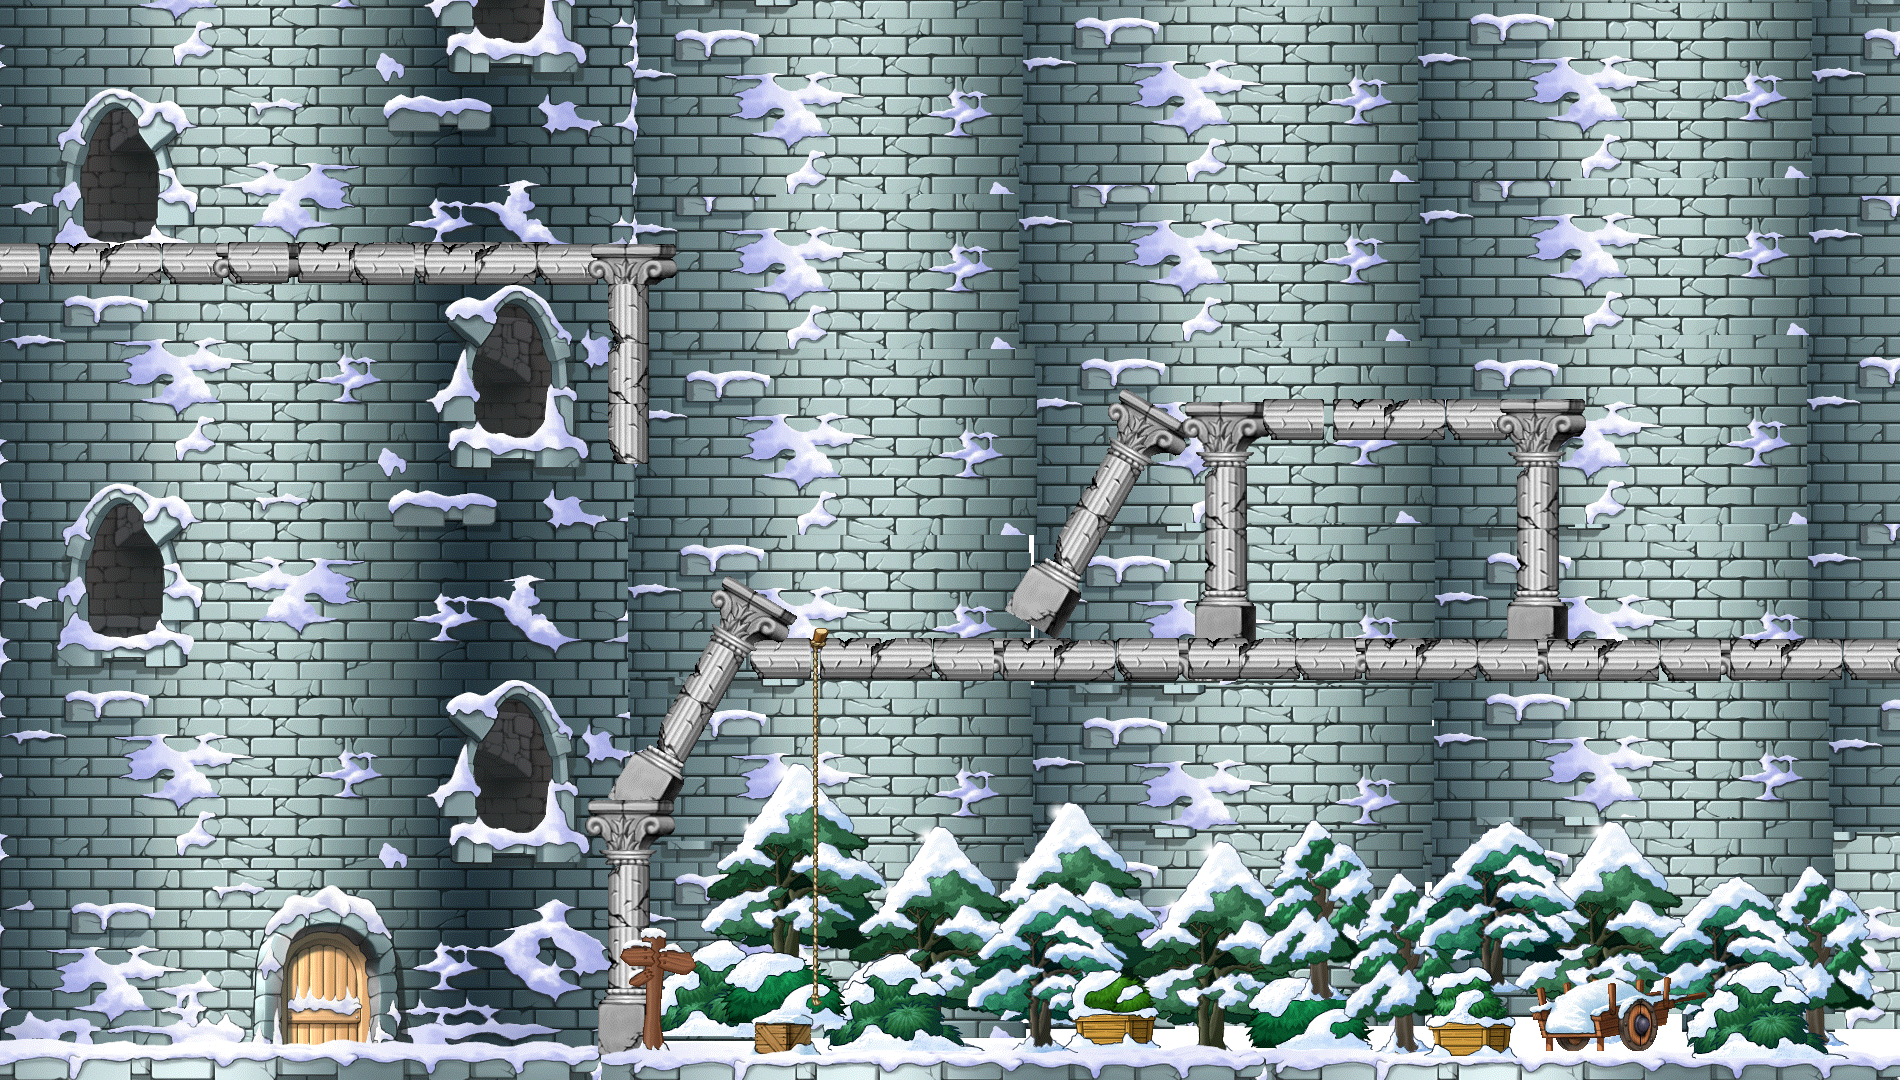
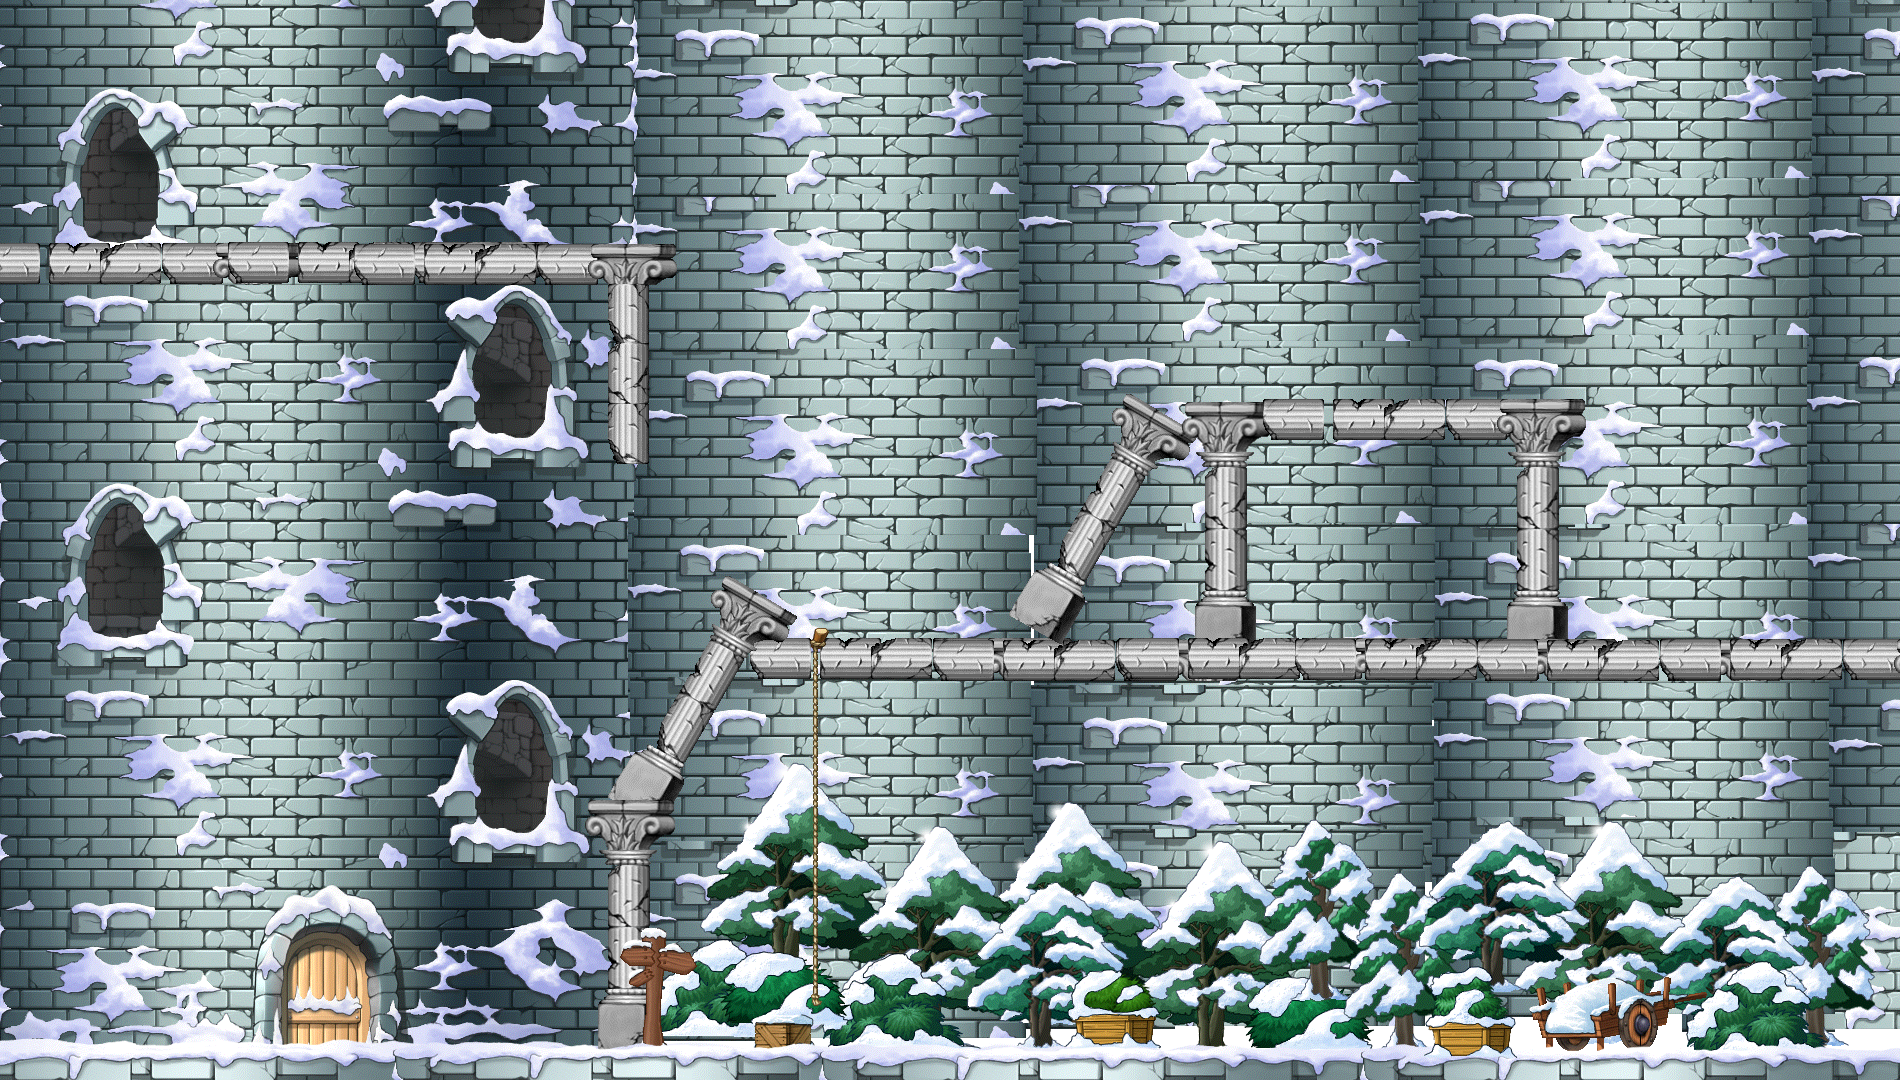
add background move

Changed region(s): [[0.1863, 0.9472, 1.0, 1.0], [0.5279, 0.3667, 0.6521, 0.6111]]

diff --git a/src/com/neuedu/maplestory/entity/Hero.java b/src/com/neuedu/maplestory/entity/Hero.java
@@ -6,6 +6,7 @@ import java.awt.event.KeyEvent;
 import java.util.LinkedList;
 import java.util.List;
 
+import com.neuedu.maplestory.client.MapleStoryClient;
 import com.neuedu.maplestory.constant.Constant;
 import com.neuedu.maplestory.util.ImageUtil;
 
@@ -37,7 +38,7 @@ public class Hero {
 		this.skill = false;
 		this.dire = Direction.right;
 		this.action = Action.stand;
-		this.speed = 10;
+		this.speed = Constant.HERO_SPEED;
 
 		try {
 			this.width = img[0].getWidth(null);
@@ -51,7 +52,7 @@ public class Hero {
 
 	public Hero() {
 		this(ImageUtil.imgHero.stand.l, 800, 0);
-		this.y = Constant.GAME_HEIGHT - this.height - 140;
+		this.y = Constant.GAME_HEIGHT - this.height - 25;
 	}
 
 	/**
@@ -98,6 +99,8 @@ public class Hero {
 				}
 				if (shoot) {
 					img = ImageUtil.imgHero.shoot.l;
+				} else if (skill) {
+					img = ImageUtil.imgHero.skill.l;
 				} else {
 					img = ImageUtil.imgHero.jump.l;
 				}
@@ -125,6 +128,8 @@ public class Hero {
 				}
 				if (shoot) {
 					img = ImageUtil.imgHero.shoot.r;
+				} else if (skill) {
+					img = ImageUtil.imgHero.skill.r;
 				} else {
 					img = ImageUtil.imgHero.jump.r;
 				}
@@ -146,52 +151,61 @@ public class Hero {
 	 */
 	public void outOfBounds() {
 
-		// left bounds
+		// left bound
 		if (x < 0) {
 			x = 0;
+			MapleStoryClient.backGround.move(Direction.right);
 		}
 
-		// right bounds
+		// right bound
 		if (x > Constant.GAME_WIDTH - this.width) {
 			x = Constant.GAME_WIDTH - this.width;
+			MapleStoryClient.backGround.move(Direction.left);
 		}
+
+		// bullets out of bound
+		bullets.removeIf((e) -> {
+			return e.Die();
+		});
 	}
 
 	/**
 	 * jump_Args
 	 */
-	public double v0 = 40;
-	public double vt = 0;
-	public static final double g = Constant.G;
-	public double t = 0.5;
-	public double delta_height = 0;
-	public boolean jump_up = true;
-	public int sy;
+	static class Jump {
+		public static double v0 = 40;
+		public static double vt = 0;
+		public static final double g = Constant.G;
+		public static double t = 0.5;
+		public static double delta_height = 0;
+		public static boolean jump_up = true;
+		public static int sy;
+	}
 
 	/**
 	 * jump Method
 	 */
 	public void jump() {
-		if (jump_up) {
-			vt = v0 - g * t;
-			delta_height = v0 * t;
-			v0 = vt;
-			y -= delta_height;
-			if (vt <= 0) {
-				jump_up = false;
-				vt = 0;
-				v0 = 0;
+		if (Jump.jump_up) {
+			Jump.vt = Jump.v0 - Jump.g * Jump.t;
+			Jump.delta_height = Jump.v0 * Jump.t;
+			Jump.v0 = Jump.vt;
+			y -= Jump.delta_height;
+			if (Jump.vt <= 0) {
+				Jump.jump_up = false;
+				Jump.vt = 0;
+				Jump.v0 = 0;
 			}
 		} else {
-			vt = v0 + g * t;
-			delta_height = v0 * t;
-			v0 = vt;
-			y += delta_height;
-			if (y >= sy) {
-				y = sy;
+			Jump.vt = Jump.v0 + Jump.g * Jump.t;
+			Jump.delta_height = Jump.v0 * Jump.t;
+			Jump.v0 = Jump.vt;
+			y += Jump.delta_height;
+			if (y >= Jump.sy) {
+				y = Jump.sy;
 				this.jump = false;
-				v0 = 40;
-				vt = 0;
+				Jump.v0 = 40;
+				Jump.vt = 0;
 			}
 		}
 	}
@@ -226,18 +240,15 @@ public class Hero {
 		for (Bullet bullet : bullets) {
 			bullet.move();
 		}
-		bullets.removeIf((e) -> {
-			return e.Die();
-		});
 	}
 
 	/**
 	 * skill
 	 */
 	void skill() {
-		final int counts = 36;
+		final int counts = 10;
 		for (int i = 0; i <= counts; i++) {
-			bullets.add(new Bullet(this.x, this.y, -Math.PI * 2 / counts * i));
+			bullets.add(new Bullet(ImageUtil.imgBullet.skill, this.x, this.y, -Math.PI / counts * i, 20));
 		}
 	}
 
@@ -278,15 +289,15 @@ public class Hero {
 			right = true;
 			break;
 		case KeyEvent.VK_J:
-			if(!shoot){
+			if (!shoot) {
 				shoot();
 			}
 			shoot = true;
 			break;
 		case KeyEvent.VK_K:
 			if (!jump) {
-				sy = y;
-				jump_up = true;
+				Jump.sy = y;
+				Jump.jump_up = true;
 				jump = true;
 			}
 			break;

diff --git a/src/com/neuedu/maplestory/util/ImageUtil.java b/src/com/neuedu/maplestory/util/ImageUtil.java
@@ -12,7 +12,7 @@ import com.neuedu.maplestory.util.GameUtil;
 
 public class ImageUtil {
 
-	public static Image imgBackground = GameUtil.getImage("com/neuedu/maplestory/img/background/snow.png");
+	public static Image imgBackground = GameUtil.getImage("com/neuedu/maplestory/img/background/BackGround.png");
 
 	public static class imgHero {
 		public static class walk {
@@ -100,12 +100,15 @@ public class ImageUtil {
 	public static class imgBullet {
 		
 		public static final int size = 1;
+
+		public static Image[] norml = new Image[size];
 		
-		public static Image[] img = new Image[size];
+		public static Image[] skill = new Image[size];
 
 		static {
 			for (int i = 0; i < size; i++) {
-				img[i] = GameUtil.getImage("com/neuedu/maplestory/img/bullet/bullet1_" + i + ".png");
+				norml[i] = GameUtil.getImage("com/neuedu/maplestory/img/bullet/bullet2_" + i + ".png");
+				skill[i] = GameUtil.getImage("com/neuedu/maplestory/img/bullet/bullet1_" + i + ".png");
 			}
 		}
 

diff --git a/src/com/neuedu/maplestory/entity/Background.java b/src/com/neuedu/maplestory/entity/Background.java
@@ -7,12 +7,13 @@ import com.neuedu.maplestory.constant.Constant;
 import com.neuedu.maplestory.util.ImageUtil;
 
 public class Background {
-	
+
 	public Image img;
 	public int x;
 	public int y;
 	public int height;
 	public int weight;
+	private int speed;
 
 	public Background(Image img, int x, int y) {
 		this.img = img;
@@ -20,6 +21,7 @@ public class Background {
 		this.y = y;
 		this.height = img.getHeight(null);
 		this.weight = img.getWidth(null);
+		this.speed = Constant.HERO_SPEED;
 	}
 
 	public Background() {
@@ -30,6 +32,22 @@ public class Background {
 	public void draw(Graphics g) {
 		g.drawImage(img, x, y, null);
 	}
-	
+
+	public void move(Direction direction) {
+		switch (direction) {
+		case left:
+			this.x -= speed;
+			if (x < Constant.GAME_WIDTH - this.weight) {
+				x = Constant.GAME_WIDTH - this.weight;
+			}
+			break;
+		case right:
+			this.x += speed;
+			if (x > 0) {
+				x = 0;
+			}
+			break;
+		}
+	}
 
 }

diff --git a/src/com/neuedu/maplestory/constant/Constant.java b/src/com/neuedu/maplestory/constant/Constant.java
@@ -7,8 +7,9 @@ package com.neuedu.maplestory.constant;
  *
  */
 public class Constant {
-	public static final int GAME_WIDTH = 1900;
-	public static final int GAME_HEIGHT = 1080;
+	public static final int GAME_WIDTH = 1200;
+	public static final int GAME_HEIGHT = 900;
 	public static final double G = 9.8;
+	public static final int HERO_SPEED = 15;
 
 }

diff --git a/src/com/neuedu/maplestory/client/MapleStoryClient.java b/src/com/neuedu/maplestory/client/MapleStoryClient.java
@@ -18,7 +18,7 @@ import com.neuedu.maplestory.util.FrameUtil;
 public class MapleStoryClient extends FrameUtil {
 
 	private Hero hero = new Hero();
-	private Background backGround = new Background();
+	static public Background backGround = new Background();
 
 	@Override
 	public void paint(Graphics g) {

diff --git a/src/com/neuedu/maplestory/entity/Bullet.java b/src/com/neuedu/maplestory/entity/Bullet.java
@@ -23,7 +23,7 @@ public class Bullet {
 	}
 
 	public Bullet(int x, int y, double angle) {
-		this(ImageUtil.imgBullet.img, x, y, angle, 25);
+		this(ImageUtil.imgBullet.norml, x, y, angle, 25);
 	}
 
 	public Bullet() {
